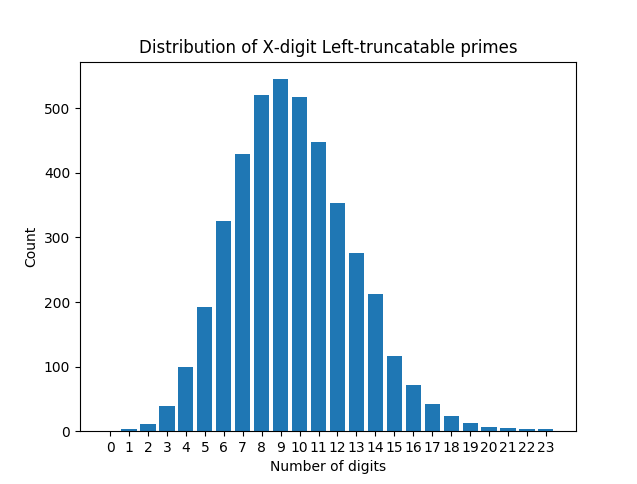
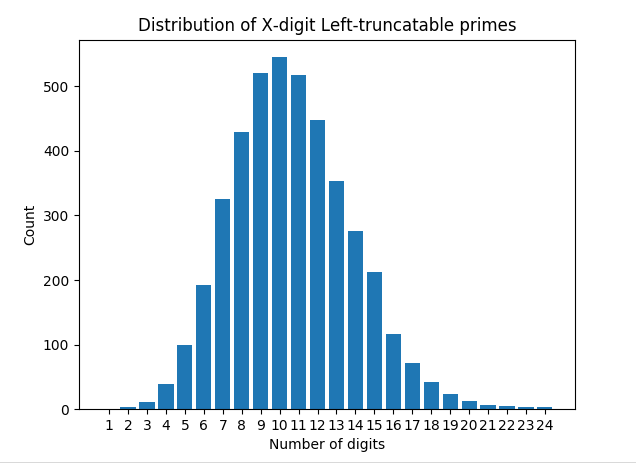
Fix indexing

Changed region(s): [[0.0, 0.0302, 1.0, 1.0], [0.2689, 0.7257, 0.2987, 0.7559]]

diff --git a/truncprimes.py b/truncprimes.py
@@ -86,9 +86,12 @@ for direction in ["left", "right"]:
     print("There are {} {}-truncatable primes.".format(len(all_primes), direction))
 
     digit_dict = get_digit_breakdown(all_primes)
-    plt.bar(range(len(digit_dict)), list(digit_dict.values()), align='center')
-    plt.xticks(range(len(digit_dict)), list(digit_dict.keys()))
+    plt.bar(range(1, len(digit_dict) + 1),
+            list(digit_dict.values()), align='center')
+    plt.xticks(range(1, len(digit_dict) + 1),
+               list(map(lambda x: x + 1, digit_dict.keys())))
     plt.xlabel("Number of digits")
     plt.ylabel("Count")
-    plt.title("Distribution of X-digit {}-truncatable primes".format(direction.capitalize()))
+    plt.title(
+        "Distribution of X-digit {}-truncatable primes".format(direction.capitalize()))
     plt.show()
